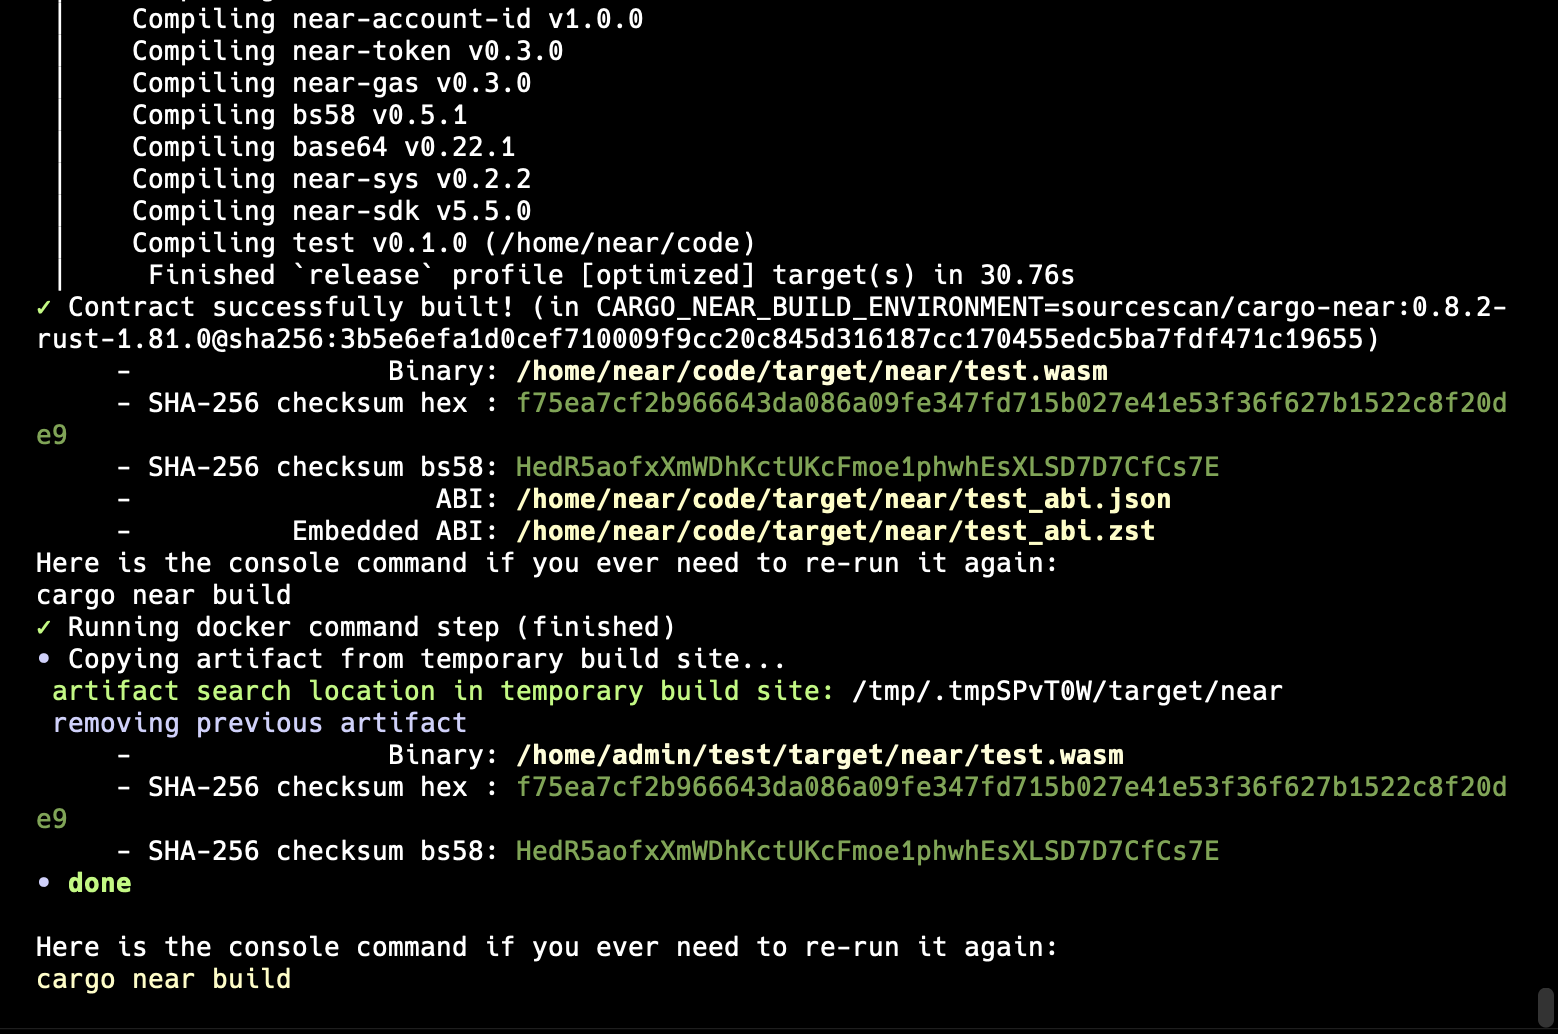
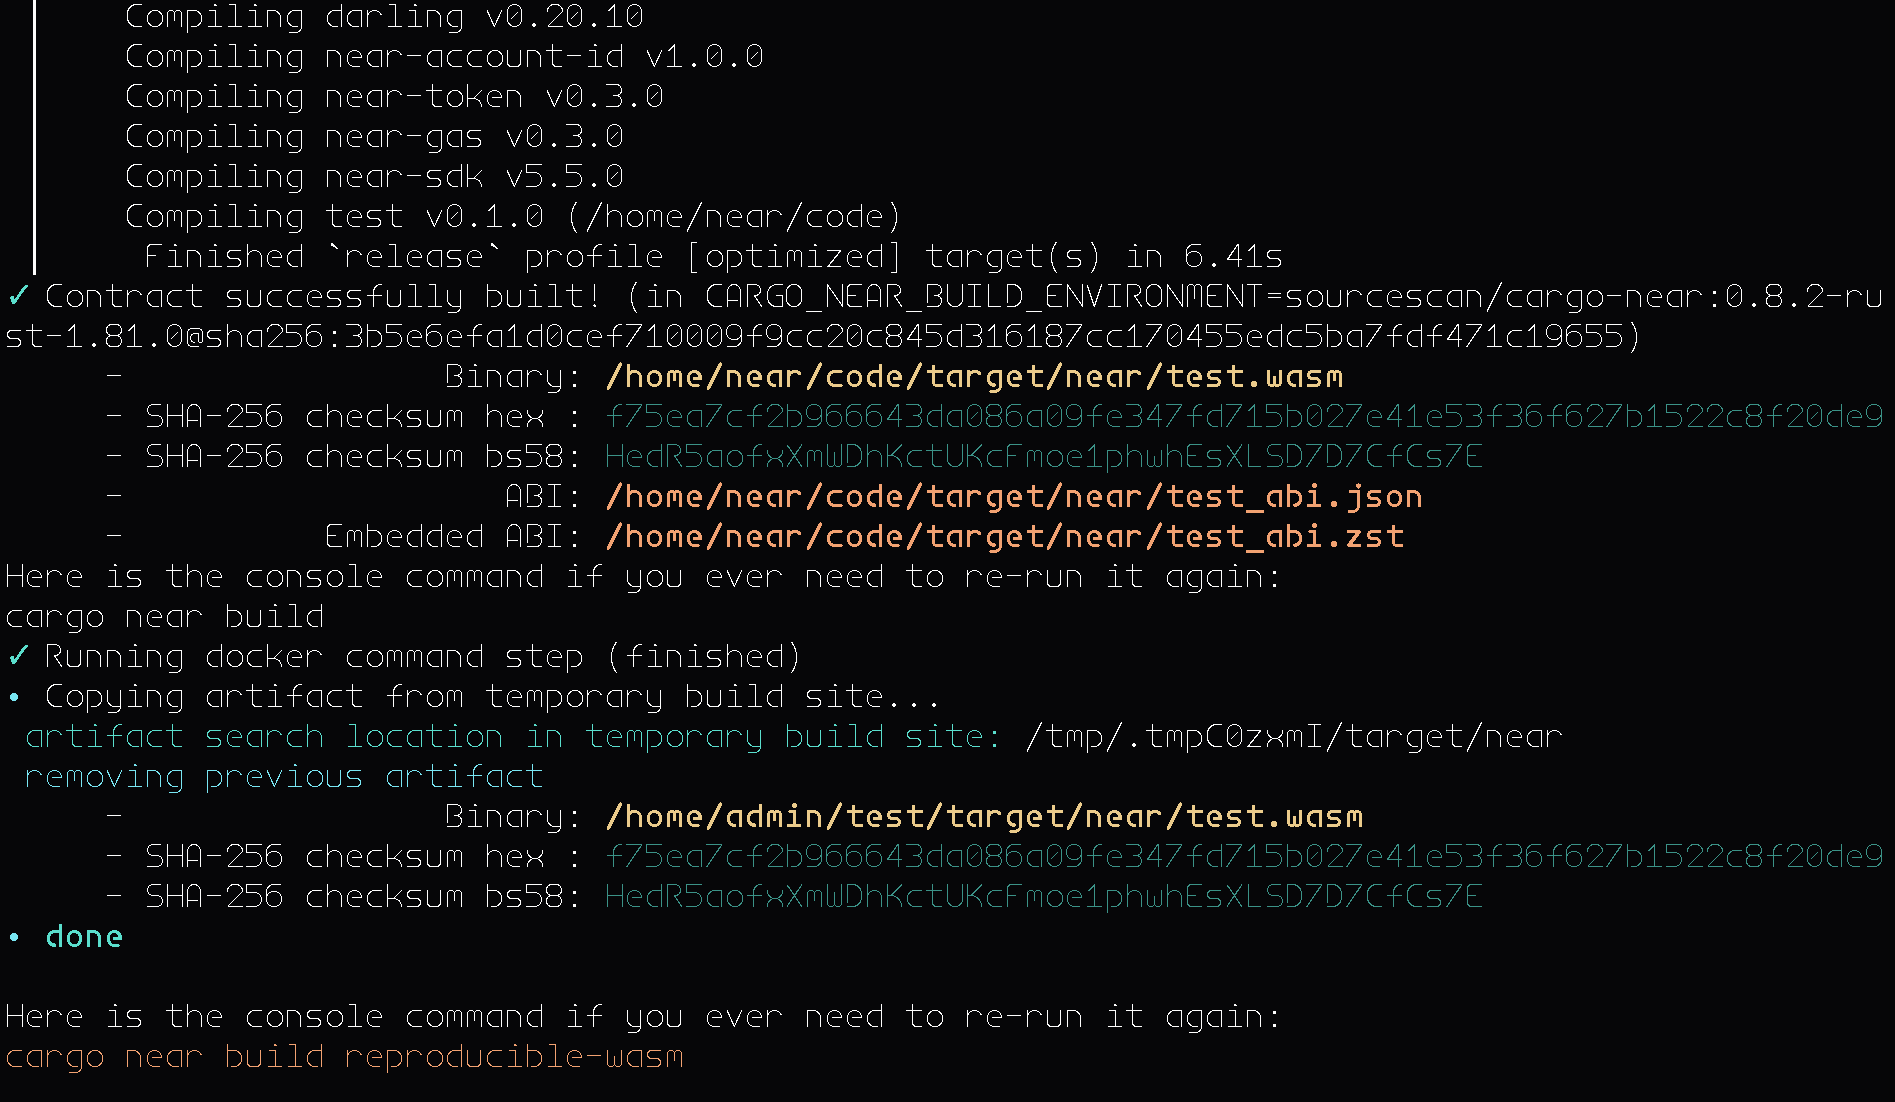
chore: update with new subcommand

diff --git a/README.md b/README.md
@@ -139,7 +139,7 @@ After initializing and pushing your code, you're ready to compile and deploy the
 Run:
 
 ```bash
-cargo near deploy
+cargo near deploy build-reproducible-wasm
 ```
 
 The code will be pulled from the remote repository for compilation, and the deployment will fail if there are any uncommitted local changes.
@@ -169,7 +169,7 @@ Our test contract was deployed to testnet successfully. The deployment transacti
 If you want to compile your contract using `cargo-near` and then deploy it using `near-cli-rs`, you can do so by running:
 
 ```bash
-cargo near build
+cargo near build reproducible-wasm
 ```
 
 This will start the compilation process and provide you with the path to the compiled `.wasm` file.
